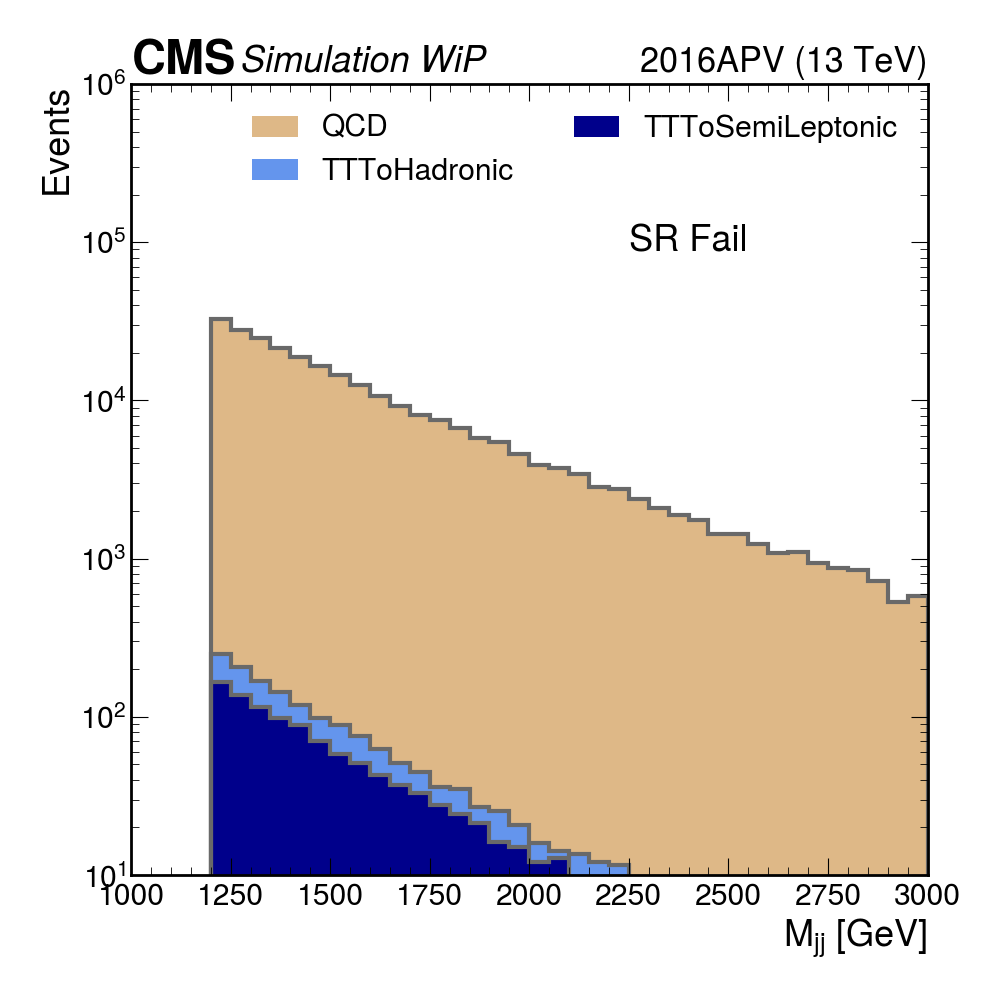
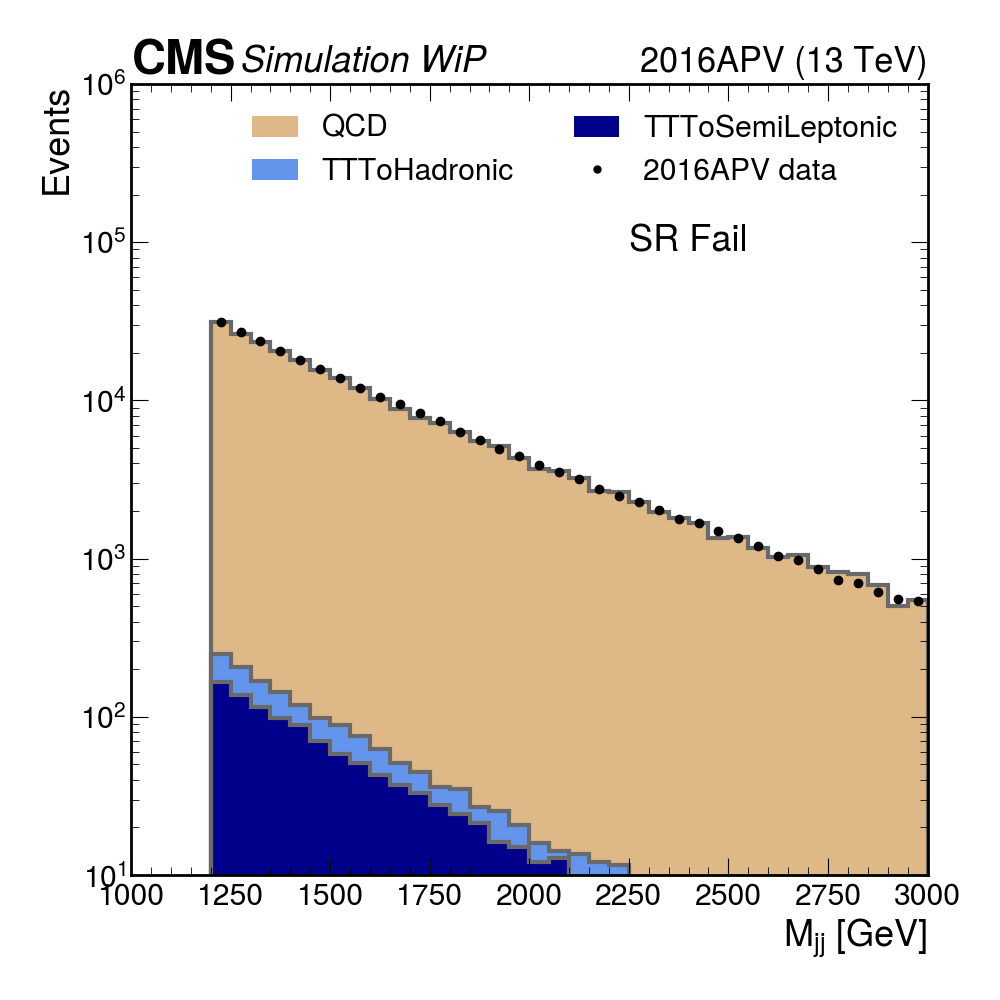
SR Fail Plots

diff --git a/template_plotting.py b/template_plotting.py
@@ -25,7 +25,7 @@ base_path='/uscms_data/d3/roguljic/el8_anomalous/el9_fitting/templates_v2/'
 
 log=True
 
-def plot(histosData,edgesData,colorsData,labelsData,histosSig,edgesSig,colorsSig,labelsSig,Pass):
+def plot(histosData,edgesData,colorsData,labelsData,histosSig,edgesSig,colorsSig,labelsSig,Pass,CRSR):
     QCD=[]
     #QCDedges=[]
     nonQCDhistos=[]
@@ -95,25 +95,16 @@ def plot(histosData,edgesData,colorsData,labelsData,histosSig,edgesSig,colorsSig
     ax.set_xlabel(xTitle)
     plt.xlabel(xTitle, horizontalalignment='right', x=1.0)
     plt.ylabel(yTitle,horizontalalignment='right', y=1.0)
-    if histosData!=None:
-        if Pass:
-            regionText = "CR Pass"
-            plt.ylim(1., 10**3)
-            plt.xlim(1000, 3000)
-        else:
-            regionText = "CR Fail"
-            plt.ylim(10., 10**6)
-            plt.xlim(1000, 3000)
+    
+    if Pass:
+        regionText = CRSR + " Pass"
+        plt.ylim(1., 10**3)
+        plt.xlim(1000, 3000)
     else:
-        if Pass:
-            regionText = "SR Pass"
-            plt.ylim(1., 10**3)
-            plt.xlim(1000, 3000)
-        else:
-            regionText = "SR Fail"
-            plt.ylim(10., 10**6)
-            plt.xlim(1000, 3000)
-
+        regionText = CRSR + " Fail"
+        plt.ylim(10., 10**6)
+        plt.xlim(1000, 3000)
+    
     plt.text(0.7, 0.8, regionText,horizontalalignment='center',verticalalignment='center',transform = ax.transAxes)
     hep.cms.text("Simulation WiP",loc=0)
     #lumiText =  $XYZ fb^{-1} (13 TeV)$"    
@@ -121,16 +112,11 @@ def plot(histosData,edgesData,colorsData,labelsData,histosSig,edgesSig,colorsSig
     hep.cms.lumitext(lumiText)
     plt.legend(loc='upper right',ncol=2)#loc="best",ncol=2)#loc = 'best'    
     plt.tight_layout()
-    if histosData!=None:
-        if Pass:
-            outFile='CRPass_'+year+'_mjj'
-        else:
-            outFile='CRFail_'+year+'_mjj'
+    if Pass:
+        outFile=CRSR+'Pass_'+year+'_mjj'
     else:
-        if Pass:
-            outFile='SRPass_'+year+'_mjj'
-        else:
-            outFile='SRFail_'+year+'_mjj'
+        outFile=CRSR+'Fail_'+year+'_mjj'
+
     print("Saving {0}".format(outFile))
 
     plt.savefig(outFile)
@@ -241,8 +227,8 @@ def make_histograms_CR(mcpaths,datapath,year):
             colorsDataFail.append(color)
             edgesDataFail.append(edges[0])
 
-    QCDPass=plot(histosDataPass,edgesDataPass,colorsDataPass,labelsDataPass,histosSigPass,edgesSigPass,colorsSigPass,labelsSigPass,True)
-    QCDFail=plot(histosDataFail,edgesDataFail,colorsDataFail,labelsDataFail,histosSigFail,edgesSigFail,colorsSigFail,labelsSigFail,False)
+    QCDPass=plot(histosDataPass,edgesDataPass,colorsDataPass,labelsDataPass,histosSigPass,edgesSigPass,colorsSigPass,labelsSigPass,True,'CR')
+    QCDFail=plot(histosDataFail,edgesDataFail,colorsDataFail,labelsDataFail,histosSigFail,edgesSigFail,colorsSigFail,labelsSigFail,False,'CR')
 
     histos_pass_to_return=[QCDPass]
     labels_to_return=['QCD']
@@ -268,6 +254,10 @@ def make_histograms_SR(mcpaths,datapath,year):
     labelsSigPass  = []
     colorsSigPass  = []
 
+    histosDataFail = []
+    edgesDataFail  = []
+    colorsDataFail = []
+    labelsDataFail = []
     histosSigFail  = []
     edgesSigFail   = []
     labelsSigFail  = []
@@ -319,11 +309,37 @@ def make_histograms_SR(mcpaths,datapath,year):
                 colorsSigFail.append(color)
                 edgesSigFail.append(edges[0])
 
+    data=r.TFile.Open(datapath[0][0])
+    process=datapath[0][1]
+    datakeys=data.GetListOfKeys()
+
+    for key in datakeys:
+
+        color='k'
+
+        keyname=key.GetName()
+        if 'CR' in keyname:
+            continue
+        if 'Pass' in keyname:
+            continue
+        elif 'Fail' in keyname:
+            pf_flag=False
+        else:
+            print('pf_flag error')
+        print('Creating histogram for data ',keyname)
+        h=data.Get(keyname)
+        projection = h.ProjectionX("proj_name")
+        hist, edges = hist2array(projection,return_edges=True)
+        if not pf_flag:
+            histosDataFail.append(hist)
+            labelsDataFail.append(process)
+            colorsDataFail.append(color)
+            edgesDataFail.append(edges[0])
 
     
 
-    QCDPass=plot(None,None,None,None,histosSigPass,edgesSigPass,colorsSigPass,labelsSigPass,True)
-    QCDFail=plot(None,None,None,None,histosSigFail,edgesSigFail,colorsSigFail,labelsSigFail,False)
+    QCDPass=plot(None,None,None,None,histosSigPass,edgesSigPass,colorsSigPass,labelsSigPass,True,'SR')
+    QCDFail=plot(histosDataFail,edgesDataFail,colorsDataFail,labelsDataFail,histosSigFail,edgesSigFail,colorsSigFail,labelsSigFail,False,'SR') 
 
 
     histos_pass_to_return=[QCDPass]
@@ -409,7 +425,7 @@ def plotrun2(datapath,histos_sig,edges_sig,colors_sig,labels_sig,pf_str,crsr_str
     
     
     hep.histplot(histosSig,edges_sig[0],stack=False,ax=ax,label=labelsSig[0],linewidth=3,histtype="fill",color=colorsSig[0])
-    if 'SR' not in crsr_str:
+    if ('SR' not in crsr_str) or ('Pass' not in pf_str):
         for i in range(len(histosData)):
             ax.errorbar(errorsCenters[i],histosData[i],yerr=errors[i],fmt='o', color=colorsData[i])
         hep.histplot(histosData,edgesData[0],stack=False,ax=ax,label=labelsData,linewidth=3,histtype="errorbar",color=colorsData)
